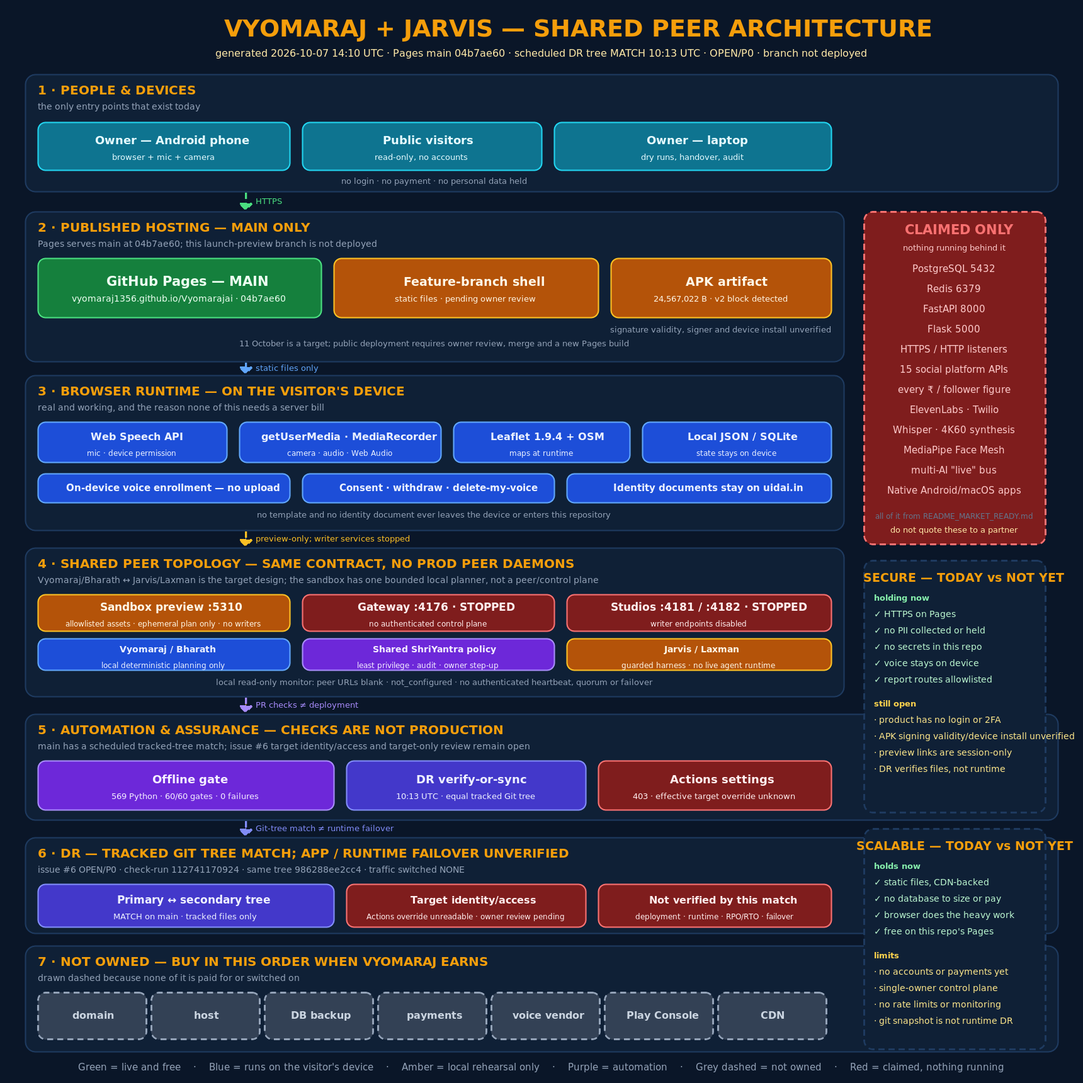
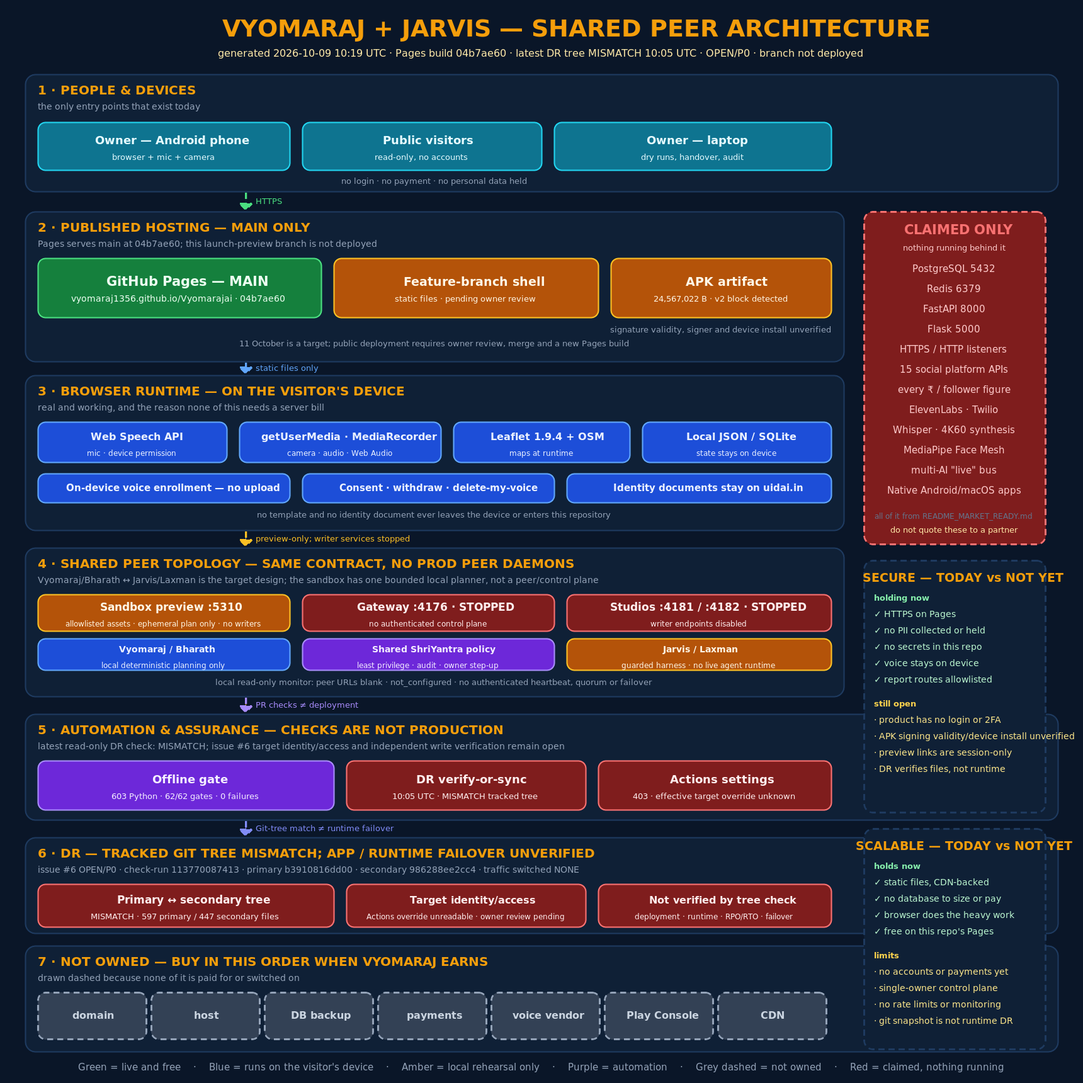
Fix launch evidence and generated checks
Resolve stale public launch disclosures and regenerate stack, ledger, and architecture evidence. Preserve explicit DR mismatch and unverified release status.

diff --git a/index.html b/index.html
@@ -1,1 +1,1 @@
-<!doctype html><html lang="en"><head><meta charset="utf-8"><meta name="viewport" content="width=device-width,initial-scale=1"><meta name="theme-color" content="#0a1628"><link rel="manifest" href="./manifest.webmanifest"><title>Vyomaraj — The King Of the Sky</title><style>:root{--bg:#0a1628;--p:#0f2340;--g:#f59e0b;--t:#e8edf5;--m:#9fb0cc}*{box-sizing:border-box}body{margin:0;background:radial-gradient(1000px 500px at 50% -10%,#19355e,var(--bg) 65%);color:var(--t);font:16px system-ui,sans-serif}.wrap{max-width:1180px;margin:auto;padding:28px}.hero{min-height:72vh;display:grid;place-items:center;text-align:center}.mark{width:92px;height:92px;margin:auto;border:2px solid var(--g);border-radius:28px;display:grid;place-items:center;font-size:52px;font-weight:900;color:var(--g)}h1{font-size:clamp(42px,8vw,82px);margin:20px 0 4px;color:var(--g)}h2{color:var(--g)}p{color:var(--m);line-height:1.65}.grid{display:grid;grid-template-columns:repeat(auto-fit,minmax(230px,1fr));gap:16px}.card{background:#0f2340cc;border:1px solid #28456d;border-radius:18px;padding:20px}a.btn{display:inline-block;margin:8px;padding:12px 18px;border-radius:12px;background:var(--g);color:#160f00;text-decoration:none;font-weight:800}.status{display:inline-block;border:1px solid #36577f;border-radius:999px;padding:7px 12px;font-size:13px}footer{padding:30px 0;color:#7085a4;font-size:12px}</style></head><body><main class="wrap"><section class="hero"><div><div class="mark">V</div><h1>Vyomaraj</h1><div style="font-size:24px">The King Of the Sky</div><p>Private, owner-controlled AI Agent OS for research, reasoning, creation, verification, distribution, resilience and measurable growth.</p><span class="status">CORE CONFIGURED • REVENUE FABRIC IMPLEMENTED • EXTERNAL ACTIVATION EVIDENCE-GATED</span><div><a class="btn" href="./flow-diagram.html">Architecture</a><a class="btn" href="./demo.html">Experience Demo</a><a class="btn" href="./ops/vyomaraj-core/approvals/index.html">Owner Approvals</a><a class="btn" href="./ops/vyomaraj-core/finance/index.html">Kuber / Finance</a></div></div></section><section><h2>Operating Core</h2><div class="grid"><div class="card"><b>ShriYantra</b><p>Authority and control root. Owner permissions remain above every agent and provider.</p></div><div class="card"><b>Vyomaraj / Bharath</b><p>Stable central intelligence, routing and planning identity.</p></div><div class="card"><b>Jarvis / Laxman</b><p>Operational coordination, handoffs and active task movement.</p></div><div class="card"><b>Hermes</b><p>Integrity, verification, recovery, fencing and audit guard.</p></div><div class="card"><b>Kuber</b><p>Financial truth: settlement evidence before revenue confirmation.</p></div><div class="card"><b>Multi-Agent Fabric</b><p>MCP + A2A + provider-neutral routing for approved tools and AI providers.</p></div></div></section><section><h2>Revenue Operating Loop</h2><div class="card"><p>DISCOVER → RESEARCH → RIGHTS → PLAN → CREATE → VERIFY → OWNER/POLICY GATE → DISTRIBUTE → ANALYZE → ATTRIBUTE → SETTLE → KUBER RECONCILE → LEARN → SCALE</p></div></section><section><h2>Truth Status</h2><div class="grid"><div class="card"><b>Verified</b><p>Repository engineering, CI validation and consolidated revenue/growth configuration.</p></div><div class="card"><b>Owner Action Required</b><p>Private DR authorization, external credentials, production platform accounts and device enrollment.</p></div><div class="card"><b>Not Claimed</b><p>No fabricated live integrations, real settlements, guaranteed earnings or production failover.</p></div></div></section><footer>© 2026 Vyomaraj • Private control plane • Public surface contains approved/evidence-based material only.</footer></main><script>if('serviceWorker'in navigator)navigator.serviceWorker.register('./sw.js').catch(()=>{});</script></body></html>
+<!doctype html><html lang="en"><head><meta charset="utf-8"><meta name="viewport" content="width=device-width,initial-scale=1"><meta name="theme-color" content="#0a1628"><link rel="manifest" href="./manifest.webmanifest"><title>Vyomaraj — The King of the Sky</title><style>:root{--bg:#0a1628;--p:#0f2340;--g:#f59e0b;--t:#e8edf5;--m:#9fb0cc}*{box-sizing:border-box}body{margin:0;background:radial-gradient(1000px 500px at 50% -10%,#19355e,var(--bg) 65%);color:var(--t);font:16px system-ui,sans-serif}.wrap{max-width:1180px;margin:auto;padding:28px}.hero{min-height:72vh;display:grid;place-items:center;text-align:center}.mark{width:92px;height:92px;margin:auto;border:2px solid var(--g);border-radius:28px;display:grid;place-items:center;font-size:52px;font-weight:900;color:var(--g)}h1{font-size:clamp(42px,8vw,82px);margin:20px 0 4px;color:var(--g)}h2{color:var(--g)}p{color:var(--m);line-height:1.65}.grid{display:grid;grid-template-columns:repeat(auto-fit,minmax(230px,1fr));gap:16px}.card{background:#0f2340cc;border:1px solid #28456d;border-radius:18px;padding:20px}a.btn{display:inline-block;margin:8px;padding:12px 18px;border-radius:12px;background:var(--g);color:#160f00;text-decoration:none;font-weight:800}.status{display:inline-block;border:1px solid #36577f;border-radius:999px;padding:7px 12px;font-size:13px}footer{padding:30px 0;color:#7085a4;font-size:12px}</style></head><body><main class="wrap"><section class="hero"><div><div class="mark">V</div><h1>Vyomaraj</h1><div style="font-size:24px">The King of the Sky</div><p>Private, owner-controlled AI Agent OS for research, reasoning, creation, verification, distribution, resilience and measurable growth.</p><p>Authority that stays human: the owner remains the final approval and access-control authority.</p><span class="status">CORE CONFIGURED • REVENUE FABRIC IMPLEMENTED • EXTERNAL ACTIVATION EVIDENCE-GATED</span><div><a class="btn" href="./flow-diagram.html">Architecture</a><a class="btn" href="./demo.html">Experience Demo</a><a class="btn" href="./ops/vyomaraj-core/approvals/index.html">Owner Approvals</a><a class="btn" href="./ops/vyomaraj-core/finance/index.html">Kuber / Finance</a></div></div></section><section><h2>Operating Core</h2><div class="grid"><div class="card"><b>ShriYantra</b><p>Authority and control root. Owner permissions remain above every agent and provider.</p></div><div class="card"><b>Vyomaraj / Bharath</b><p>Stable central intelligence, routing and planning identity.</p></div><div class="card"><b>Jarvis / Laxman</b><p>Operational coordination, handoffs and active task movement.</p></div><div class="card"><b>Hermes</b><p>Integrity, verification, recovery, fencing and audit guard.</p></div><div class="card"><b>Kuber</b><p>Financial truth: settlement evidence before revenue confirmation.</p></div><div class="card"><b>Multi-Agent Fabric</b><p>MCP + A2A + provider-neutral routing for approved tools and AI providers.</p></div></div></section><section><h2>Revenue Operating Loop</h2><div class="card"><p>DISCOVER → RESEARCH → RIGHTS → PLAN → CREATE → VERIFY → OWNER/POLICY GATE → DISTRIBUTE → ANALYZE → ATTRIBUTE → SETTLE → KUBER RECONCILE → LEARN → SCALE</p></div></section><section><h2>Truth Status</h2><div class="grid"><div class="card"><b>Verified</b><p>Repository engineering, CI validation and consolidated revenue/growth configuration.</p></div><div class="card"><b>Owner Action Required</b><p>Private DR authorization, external credentials, production platform accounts and device enrollment.</p></div><div class="card"><b>Not Claimed</b><p>No fabricated live integrations, real settlements, guaranteed earnings or production failover.</p></div></div></section><section aria-labelledby="release-status"><h2 id="release-status">Release status and verification</h2><div class="grid"><div class="card"><b>Release target: 11 October 2026</b><p>This is a release target, not a claim that every planned service or app is already live.</p><p><strong>NOT LIVE · NOT RELEASED · NOT VERIFIED</strong></p></div><div class="card"><b>Android APK verification</b><p>A v2 signing-block entry was detected. Cryptographic validity and signer provenance are unverified. Installation has not been tested on a real device. The APK is not offered as a release.</p></div></div></section><footer>© 2026 Vyomaraj • Private control plane • Public surface contains approved/evidence-based material only.</footer></main><script>if('serviceWorker'in navigator)navigator.serviceWorker.register('./sw.js').catch(()=>{});</script></body></html>

diff --git a/ops/vyomaraj-core/handover/architecture_diagram.py b/ops/vyomaraj-core/handover/architecture_diagram.py
@@ -36,7 +36,7 @@ def current_evidence() -> dict:
     try:
         ledger = json.loads(LIVE_LEDGER.read_text(encoding="utf-8"))
         live = ledger.get("current_live_recheck_2026_10_07", {})
-        dr = live.get("dr_snapshot", {})
+        dr = ledger.get("current_dr_validation_2026_10_09", live.get("dr_snapshot", {}))
     except (OSError, UnicodeError, json.JSONDecodeError):
         live, dr = {}, {}
     try:
@@ -121,15 +121,17 @@ def build_layout():
     check_summary = (f"{tests.get('python_tests_total', '—')} Python · "
                      f"{check_total - check_failures}/{check_total} gates · {check_failures} failures"
                      if check_total else "offline gate not recorded")
-    main_sha = live.get("main", {}).get("sha", dr.get("head_sha", "unknown"))[:8]
+    main_sha = live.get("pages", {}).get("build_commit", live.get("main", {}).get("sha", dr.get("primary_commit", "unknown")))[:8]
     tree = dr.get("primary_tree", "unknown")[:12]
-    dr_time = dr.get("completed_at_utc", "unknown")
+    secondary_tree = dr.get("secondary_tree", "unknown")[:12]
+    dr_time = dr.get("completed_at_utc", dr.get("run_completed_at_utc", "unknown"))
     dr_time_label = dr_time[11:16] if len(dr_time) >= 16 else "unknown"
     dr_check = dr.get("check_run_id", "unknown")
     issue_state = f"{live.get('issue_6', {}).get('state', 'unknown')}/{live.get('issue_6', {}).get('priority', 'unknown')}"
     generated = datetime.now(timezone.utc).strftime("%Y-%m-%d %H:%M UTC")
     texts.append((W / 2, 58, "VYOMARAJ + JARVIS — SHARED PEER ARCHITECTURE", 38, GOLD, True, "middle"))
-    texts.append((W / 2, 90, f"generated {generated} · Pages main {main_sha} · scheduled DR tree MATCH {dr_time[11:16]} UTC · {issue_state} · branch not deployed", 16, GOLD_SOFT, False, "middle"))
+    dr_status = dr.get("tree_status", dr.get("status", "UNKNOWN"))
+    texts.append((W / 2, 90, f"generated {generated} · Pages build {main_sha} · latest DR tree {dr_status} {dr_time[11:16]} UTC · {issue_state} · branch not deployed", 16, GOLD_SOFT, False, "middle"))
 
     # 1 ─ people -----------------------------------------------------------
     band(118, 186, "1 · PEOPLE & DEVICES", "the only entry points that exist today")
@@ -173,17 +175,17 @@ def build_layout():
 
     # 5 ─ automation -------------------------------------------------------
     band(1134, 168, "5 · AUTOMATION & ASSURANCE — CHECKS ARE NOT PRODUCTION",
-         "main has a scheduled tracked-tree match; issue #6 target identity/access and target-only review remain open")
+         f"latest read-only DR check: {dr_status}; issue #6 target identity/access and independent write verification remain open")
     box(60, 1208, 470, 78, "auto", "Offline gate", check_summary, fs=18, subfs=13)
-    box(550, 1208, 380, 78, "dr", "DR verify-or-sync", f"{dr_time_label} UTC · equal tracked Git tree", fs=18, subfs=13)
+    box(550, 1208, 380, 78, "dr" if dr_status == "MATCH" else "claim", "DR verify-or-sync", f"{dr_time_label} UTC · {dr_status} tracked tree", fs=18, subfs=13)
     box(950, 1208, 370, 78, "claim", "Actions settings", "403 · effective target override unknown", fs=18, subfs=13)
 
     # 6 ─ DR ---------------------------------------------------------------
-    band(1330, 152, "6 · DR — TRACKED GIT TREE MATCH; APP / RUNTIME FAILOVER UNVERIFIED",
-         f"issue #6 {issue_state} · check-run {dr_check} · same tree {tree} · traffic switched NONE")
-    box(60, 1404, 470, 68, "dr", "Primary ↔ secondary tree", "MATCH on main · tracked files only", fs=17, subfs=13)
+    band(1330, 152, f"6 · DR — TRACKED GIT TREE {dr_status}; APP / RUNTIME FAILOVER UNVERIFIED",
+         f"issue #6 {issue_state} · check-run {dr_check} · primary {tree} · secondary {secondary_tree} · traffic switched NONE")
+    box(60, 1404, 470, 68, "dr" if dr_status == "MATCH" else "claim", "Primary ↔ secondary tree", f"{dr_status} · {dr.get('primary_files', '?')} primary / {dr.get('secondary_files', '?')} secondary files", fs=17, subfs=13)
     box(550, 1404, 380, 68, "claim", "Target identity/access", "Actions override unreadable · owner review pending", fs=16, subfs=12)
-    box(950, 1404, 370, 68, "claim", "Not verified by this match", "deployment · runtime · RPO/RTO · failover", fs=16, subfs=12)
+    box(950, 1404, 370, 68, "claim", "Not verified by tree check", "deployment · runtime · RPO/RTO · failover", fs=16, subfs=12)
 
     # 7 ─ not owned --------------------------------------------------------
     band(1502, 168, "7 · NOT OWNED — BUY IN THIS ORDER WHEN VYOMARAJ EARNS",
@@ -330,10 +332,11 @@ def facts() -> list[str]:
                   f"the APK is present; a v2 signing-block entry was detected, but cryptographic "
                   f"verification and device installation remain unverified")
     dr = current_evidence()["dr"]
-    matched = (dr.get("status") == "MATCH" and dr.get("data_match") is True
-               and dr.get("primary_tree") == dr.get("secondary_tree")
-               and dr.get("traffic_switched") == "NONE")
-    checks.append(f"{'OK  ' if matched else 'FAIL'} latest recorded scheduled DR annotation reports an equal tracked Git tree without traffic switch")
+    status = dr.get("tree_status", dr.get("status", "UNKNOWN"))
+    primary_tree = dr.get("primary_tree")
+    secondary_tree = dr.get("secondary_tree")
+    evidence_consistent = (status == "MATCH" and isinstance(primary_tree, str) and primary_tree == secondary_tree) or (status == "MISMATCH" and isinstance(primary_tree, str) and isinstance(secondary_tree, str) and primary_tree != secondary_tree)
+    checks.append(f"{'OK  ' if evidence_consistent else 'FAIL'} diagram DR status matches latest read-only tree comparison ({status})")
     tests = current_evidence()["tests"]
     gate_total = len(tests.get("python_suites", [])) + len(tests.get("node_checks", [])) + len(tests.get("builders", []))
     gate_failures = len(tests.get("failures", []))
@@ -350,10 +353,13 @@ def check() -> int:
     if SVG_PATH.is_file():
         svg = SVG_PATH.read_text()
         # The SVG escapes "&", so markers must be chosen to survive escaping.
+        dr = current_evidence()["dr"]
+        dr_status = dr.get("tree_status", dr.get("status", "UNKNOWN"))
+        secondary_tree = dr.get("secondary_tree", "unknown")[:12]
         for marker in ("SHARED PEER ARCHITECTURE", "GitHub Pages — MAIN", "CLAIMED ONLY",
                        "NOT OWNED", "v2 block detected", "unverified", "uidai.in", "04b7ae60",
                        "issue #6 OPEN/P0", "Sandbox preview :5310", "not_configured",
-                       "TRACKED GIT TREE MATCH", "986288ee2cc4", "traffic switched NONE",
+                       f"TRACKED GIT TREE {dr_status}", secondary_tree, "traffic switched NONE",
                        "RPO/RTO", "Native Android/macOS apps"):
             if marker not in svg:
                 problems.append(f"svg lost marker: {marker}")
@@ -363,7 +369,7 @@ def check() -> int:
         for p in problems:
             print("  -", p)
         return 1
-    print(f"OK: architecture diagram matches the latest recorded tracked-tree result, "
+    print(f"OK: architecture diagram matches the latest recorded DR result, "
           f"peer/preview limits and repository facts (svg {SVG_PATH.stat().st_size} B, "
           f"png {PNG_PATH.stat().st_size} B)")
     return 0

diff --git a/ops/vyomaraj-core/handover/build_stack_record.py b/ops/vyomaraj-core/handover/build_stack_record.py
@@ -206,18 +206,22 @@ def build():
     surface = product_surface()
     issue_ledger = json.loads((HERE / 'ISSUES_AND_PRS_LEDGER.json').read_text(encoding='utf-8'))
     live = issue_ledger.get('current_live_recheck_2026_10_07', {})
-    dr = live.get('dr_snapshot', {})
+    dr = json.loads((HERE / 'ISSUES_AND_PRS_LEDGER.json').read_text(encoding='utf-8')).get('current_dr_validation_2026_10_09', live.get('dr_snapshot', {}))
     pages = live.get('pages', {})
     verified_stack = [list(row) for row in VERIFIED_STACK]
     for row in verified_stack:
         if row[0] == 'Public hosting':
             row[2] = f"Live read 2026-10-07: Pages API build {pages.get('build_commit', 'unknown')[:8]}, source main"
         elif row[0] == 'Automation':
-            row[3] = (f"scheduled run {dr.get('workflow_run_id')} reports a tracked-tree match; "
-                      "Actions variable may override fallback and settings API access is 403")
+            if dr.get('tree_status', dr.get('status')) == 'MATCH':
+                row[3] = f"latest read-only diagnostic reports equal tracked Git trees ({dr.get('primary_tree', 'unknown')}); write access and runtime DR remain unverified"
+            else:
+                row[3] = f"latest read-only diagnostic reports {dr.get('tree_status', dr.get('status', 'UNKNOWN'))}: {dr.get('missing_on_secondary', 'unknown')} files missing and {dr.get('changed_content_or_mode', 'unknown')} differing; no writes attempted"
         elif row[0] == 'DR mechanism':
-            row[3] = (f"scheduled check {dr.get('completed_at_utc')} reports equal tracked Git trees "
-                      f"({dr.get('primary_tree')}); canonical target identity and runtime DR are unverified")
+            if dr.get('tree_status', dr.get('status')) == 'MATCH':
+                row[3] = f"latest read-only check reports equal tracked Git trees ({dr.get('primary_tree', 'unknown')}); canonical target identity and runtime DR remain unverified"
+            else:
+                row[3] = f"latest read-only check reports {dr.get('tree_status', dr.get('status', 'UNKNOWN'))}: {dr.get('missing_on_secondary', 'unknown')} missing, {dr.get('changed_content_or_mode', 'unknown')} changed; writes and runtime DR remain unverified"
     link_classes = [list(row) for row in LINK_CLASSES]
     handover = [row for row in archives if row['name'].startswith('Vyomaraj-Handover-')
                 and row['name'].endswith('.zip')]
@@ -250,6 +254,7 @@ def build():
 def render(ledger):
     current = ledger.get('current_external_snapshot', {})
     dr = current.get('scheduled_dr_snapshot', {})
+    dr_status = dr.get('tree_status', dr.get('status', 'UNKNOWN'))
     target = current.get('dr_target_resolution', {})
     pages = current.get('pages', {})
     lines = [
@@ -305,8 +310,8 @@ def render(ledger):
               'servers, GitHub Pages, GitHub Actions workflow definitions, a Git-snapshot replication mechanism, '
               'local planners, and browser APIs. The scheduled Actions check at '
               f"`{dr.get('completed_at_utc')}` (run `{dr.get('workflow_run_id')}` / check `{dr.get('check_run_id')}`) reports "
-              f"`status={dr.get('status')}`, `data_match={dr.get('data_match')}`, equal tracked trees "
-              f"`{dr.get('primary_tree')}` / `{dr.get('secondary_tree')}`, and traffic `{dr.get('traffic_switched')}`. "
+              f"`status={dr_status}`, `data_match={dr.get('data_match')}`, primary tree "
+              f"`{dr.get('primary_tree')}` / secondary tree `{dr.get('secondary_tree')}`, and traffic `{dr.get('traffic_switched', 'UNKNOWN')}`. "
               f"The workflow-selected target identity `{target.get('effective_target_identity', 'UNCONFIRMED')}` "
               'is not independently confirmed (Actions settings API 403; candidate paths 404 are ambiguous). '
               'This does not prove runtime/app equality, site failover, RPO or RTO; issue #6 stays OPEN/P0.', '',
@@ -317,7 +322,7 @@ def render(ledger):
     lines += ['', '## 5. The zero-cost launch path (no money spent)', '',
               '| Need | Free route | Cost | Limit to state honestly |', '|---|---|---|---|',
               f'| Public address | GitHub Pages from `main:/` at `{pages.get("build_commit", "unknown")[:8]}` | ₹0 | This feature branch is not deployed; static files only, no server-side runtime |',
-              f'| Automation + DR | Scheduled run `{dr.get("workflow_run_id")}` reports equal tracked Git trees | ₹0 | Effective target identity `{target.get("effective_target_identity", "UNCONFIRMED")}` remains unconfirmed; runtime/failover/RPO/RTO are not proven |',
+              f'| Automation + DR | Latest read-only check `{dr.get("workflow_run_id")}` reports tracked-tree `{dr_status}` | ₹0 | Effective target identity `{target.get("effective_target_identity", "UNCONFIRMED")}` remains unconfirmed; runtime/failover/RPO/RTO are not proven |',
               '| App distribution | Existing APK v2 signing-block entry; signature validity not established | ₹0 tooling | Run `apksigner verify`, confirm signer provenance, then test installation on a real device before distributing; never treat block presence alone as proof |',
               f'| Local dry runs | Five legacy Python preview services plus the allowlisted :5310 demo are defined | ₹0 | {current.get("local_preview_scope")}; session-only rehearsal, not production |',
               '| Voice enrollment | On-device only, consent screen + delete control | ₹0 | No cloud vendor, no cloning, no identity-document capture in the app |',

diff --git a/ops/vyomaraj-core/handover/STACK_AND_PLATFORM_RECORD_2026_10_06.md b/ops/vyomaraj-core/handover/STACK_AND_PLATFORM_RECORD_2026_10_06.md
@@ -20,8 +20,8 @@ This is the answer to "what technologies and platforms did we use and configure?
 | Local owner-approval slice | Ed25519 exact-action verification + private transactional SQLite queue and local hash chain | `ops/shriyantra/owner_guard.py, ops/vyomaraj-core/approvals/approval_store.py, experience/studio_server.py` | issuer/key/owner/security epoch are not configured; local single-host control slice only; no agent handoff or publishing |
 | Bindings | Server-specific: studio and availability gateway enforce IPv4 loopback; public sandbox preview binds for session access | `studio_server.py and gateway.py validate_loopback_host; public_landing_server.py serves exact assets, GET /api/catalog, and POST /api/plan` | catalog is curated/read-only for two fixed packs; the planner accepts only two fixed experiences, performs no persistence/provider calls, and is not a privileged writer; never network-bind the local studio/gateway |
 | Public hosting | GitHub Pages from main (static) | `Live read 2026-10-07: Pages API build 04b7ae60, source main` | the current feature branch is not deployed there; the URL serves main only |
-| Automation | GitHub Actions workflow definitions, Python 3.12 and Node 20/24 runners | `vyomaraj-sync-both.yml, vyomaraj-ci-diagnostics.yml, vyomaraj-research.yml` | scheduled run 37605789908 reports a tracked-tree match; Actions variable may override fallback and settings API access is 403 |
-| DR mechanism | Git-snapshot replication workflow with scheduled tracked-tree match evidence | `ops/dr/dr_sync.py, ops/dr/DR_POLICY.json, live read-only annotations recorded in ISSUES_AND_PRS_LEDGER.json` | scheduled check 2026-10-07T10:13:11Z reports equal tracked Git trees (986288ee2cc4ec4d89400320150ea893f7a7a2de); canonical target identity and runtime DR are unverified |
+| Automation | GitHub Actions workflow definitions, Python 3.12 and Node 20/24 runners | `vyomaraj-sync-both.yml, vyomaraj-ci-diagnostics.yml, vyomaraj-research.yml` | latest read-only diagnostic reports MISMATCH: 150 files missing and 108 differing; no writes attempted |
+| DR mechanism | Git-snapshot replication workflow with scheduled tracked-tree match evidence | `ops/dr/dr_sync.py, ops/dr/DR_POLICY.json, live read-only annotations recorded in ISSUES_AND_PRS_LEDGER.json` | latest read-only check reports MISMATCH: 150 missing, 108 changed; writes and runtime DR remain unverified |
 | Tests and preview release gate | Python unittest + node syntax/tests + builder checks; verification only | `ops/vyomaraj-core/handover/run_offline_suites.py, ops/vyomaraj/publish-gate.sh` | a preview PASS does not change the separate production status; the gate never deploys |
 | State stores | SQLite and JSON files on disk (no database server) | `ops/vyomaraj-core/research/discovery.py, approvals/approval_store.py, ops/vyomaraj-core/ledger` | research/approval state is single-host and outside Git-snapshot replication; approval DB is owner-only, but both need independent backup/restore evidence |
 | Browser voice | Web Speech API (speechSynthesis) where the page uses it | `product HTML/JS voice controls` | microphone capture needs device permission |
@@ -89,10 +89,10 @@ This is the answer to "what technologies and platforms did we use and configure?
 
 | File | Bytes |
 |---|---|
-| `index.html` | 12,906 |
+| `index.html` | 4,570 |
 | `Index.html` | 12,761 |
 | `landing.html` | 691 |
-| `flow-diagram.html` | 61,992 |
+| `flow-diagram.html` | 62,232 |
 | `demo.html` | 6,427 |
 | `launch.css` | 11,337 |
 | `launch.js` | 1,841 |
@@ -131,7 +131,7 @@ This is the answer to "what technologies and platforms did we use and configure?
 | Multi-AI provider coordination as a live bus | ops/vyomaraj-core/multi-ai-coordination.js states in its own header that it is metadata-only and that historical versions fabricated LIVE values |
 | SearXNG + Ollama research runtime | ops/vyomaraj-core/research/ — discovery is local; the provider runtime is not active |
 
-Everything in section 1 is the implemented repository stack: static pages, Python standard-library servers, GitHub Pages, GitHub Actions workflow definitions, a Git-snapshot replication mechanism, local planners, and browser APIs. The scheduled Actions check at `2026-10-07T10:13:11Z` (run `37605789908` / check `112741170924`) reports `status=MATCH`, `data_match=True`, equal tracked trees `986288ee2cc4ec4d89400320150ea893f7a7a2de` / `986288ee2cc4ec4d89400320150ea893f7a7a2de`, and traffic `NONE`. The workflow-selected target identity `UNCONFIRMED: an Actions variable may override the in-repo fallback and is unreadable here` is not independently confirmed (Actions settings API 403; candidate paths 404 are ambiguous). This does not prove runtime/app equality, site failover, RPO or RTO; issue #6 stays OPEN/P0.
+Everything in section 1 is the implemented repository stack: static pages, Python standard-library servers, GitHub Pages, GitHub Actions workflow definitions, a Git-snapshot replication mechanism, local planners, and browser APIs. The scheduled Actions check at `2026-10-09T10:05:03Z` (run `37915358013` / check `113770087413`) reports `status=MISMATCH`, `data_match=False`, primary tree `b3910816dd00782b1eb77db879c657af49569de9` / secondary tree `986288ee2cc4ec4d89400320150ea893f7a7a2de`, and traffic `NONE`. The workflow-selected target identity `UNCONFIRMED: an Actions variable may override the in-repo fallback and is unreadable here` is not independently confirmed (Actions settings API 403; candidate paths 404 are ambiguous). This does not prove runtime/app equality, site failover, RPO or RTO; issue #6 stays OPEN/P0.
 
 ## 4. Links: what lasts and what dies
 
@@ -150,7 +150,7 @@ Everything in section 1 is the implemented repository stack: static pages, Pytho
 | Need | Free route | Cost | Limit to state honestly |
 |---|---|---|---|
 | Public address | GitHub Pages from `main:/` at `04b7ae60` | ₹0 | This feature branch is not deployed; static files only, no server-side runtime |
-| Automation + DR | Scheduled run `37605789908` reports equal tracked Git trees | ₹0 | Effective target identity `UNCONFIRMED: an Actions variable may override the in-repo fallback and is unreadable here` remains unconfirmed; runtime/failover/RPO/RTO are not proven |
+| Automation + DR | Latest read-only check `37915358013` reports tracked-tree `MISMATCH` | ₹0 | Effective target identity `UNCONFIRMED: an Actions variable may override the in-repo fallback and is unreadable here` remains unconfirmed; runtime/failover/RPO/RTO are not proven |
 | App distribution | Existing APK v2 signing-block entry; signature validity not established | ₹0 tooling | Run `apksigner verify`, confirm signer provenance, then test installation on a real device before distributing; never treat block presence alone as proof |
 | Local dry runs | Five legacy Python preview services plus the allowlisted :5310 demo are defined | ₹0 | Port 5310 is a session-scoped preview; listener state is transient and deliberately not persisted in this generated record.; session-only rehearsal, not production |
 | Voice enrollment | On-device only, consent screen + delete control | ₹0 | No cloud vendor, no cloning, no identity-document capture in the app |

diff --git a/ops/vyomaraj-core/handover/DR_SYNC_RESULTS_2026_10_04.md b/ops/vyomaraj-core/handover/DR_SYNC_RESULTS_2026_10_04.md
@@ -23,7 +23,7 @@ Pages API reports `built` from `main:/` at `04b7ae60`; this feature branch is no
[5 lines of base64/hex data omitted]
 
 Method: Record one successful verify-or-sync checkpoint for each newly observed main tip, plus the latest scheduled confirmation on the final tip per section 5c. Read the public DR SNAPSHOT RESULT annotation; compare status, tree SHAs, data_match and rollback_commit exactly. A rollback_commit marks a write; absent means an idempotent no-op.
 

diff --git a/ops/vyomaraj-core/handover/BUILD_AND_CONFIGURATION_2026_10_04.md b/ops/vyomaraj-core/handover/BUILD_AND_CONFIGURATION_2026_10_04.md
@@ -82,6 +82,7 @@ Serial-only entries are shown in the viewer as `REF`/serial identifiers (`displa
 
 | File | Name | Schedule |
 |---|---|---|
+| `refresh-generated-evidence.yml` | Refresh generated architecture and evidence records | `no schedule` |
 | `shriyantra-crypto-baseline.yml` | ShriYantra Crypto Baseline | `no schedule` |
 | `shriyantra-owner-guard.yml` | ShriYantra owner guard tests | `no schedule` |
 | `vyomaraj-ci-diagnostics.yml` | Vyomaraj CI diagnostics (readable annotations) | `no schedule` |
